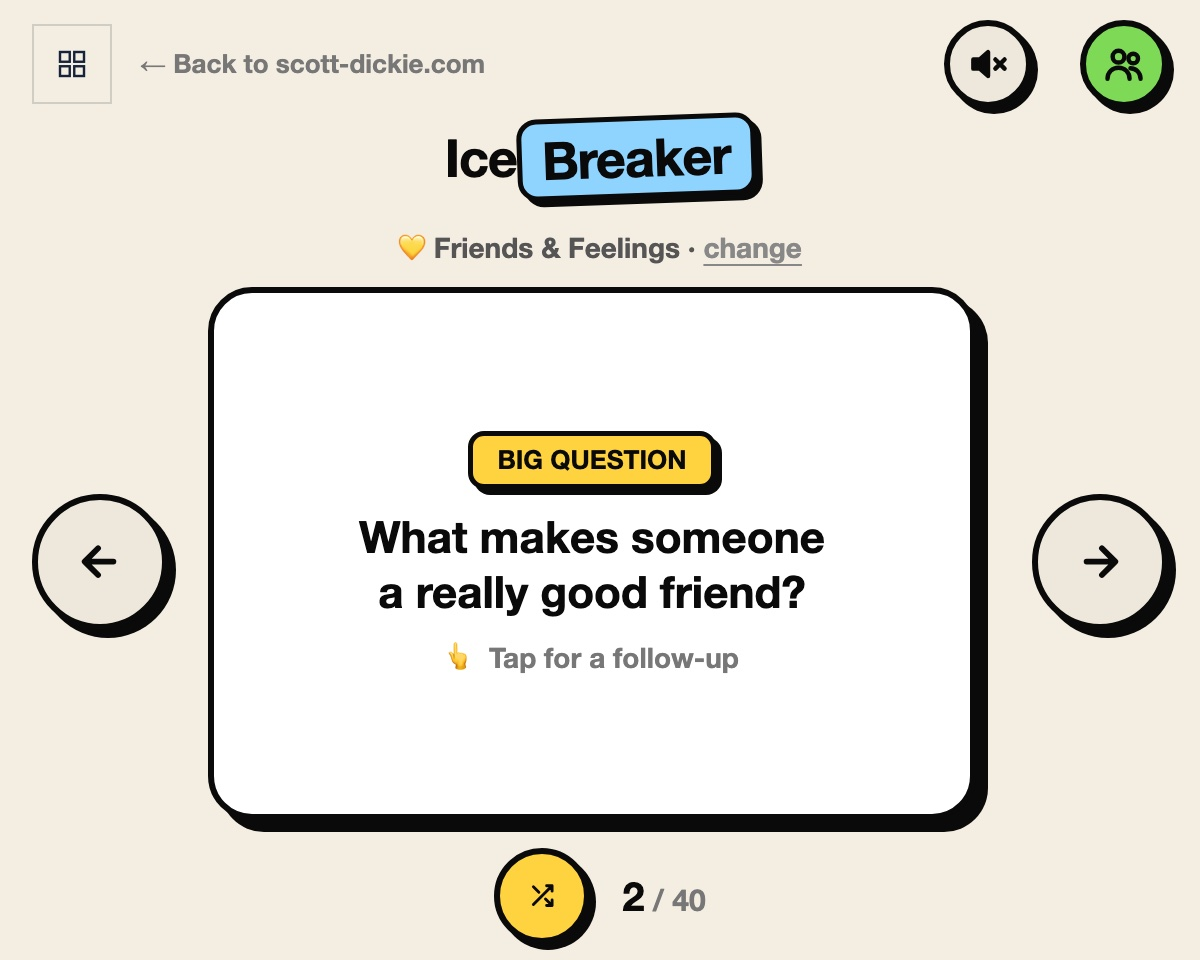
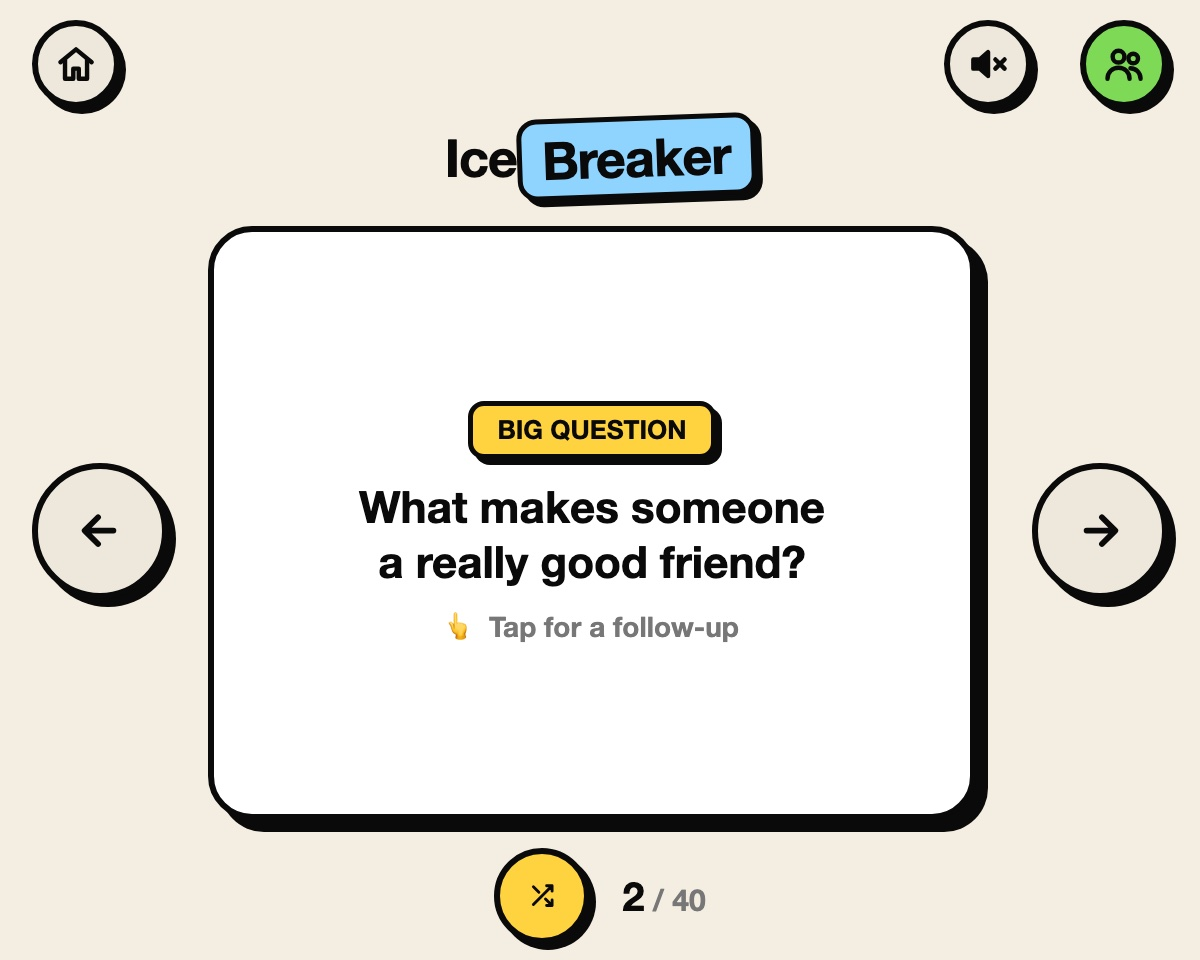
IceBreaker: home button back to the topics replaces the menu and back link

diff --git a/icebreaker/index.html b/icebreaker/index.html
@@ -222,7 +222,7 @@
   .counter{font-size:15px; font-weight:800; color:#777; text-align:center;}
   .counter b{color:var(--ink); font-size:20px;}
 
-  /* Top-left bar: projects menu first, then the way home */
+  /* Top bar: home (back to the topics) on the left, voice and players on the right */
   .page-nav{
     align-self:stretch;
     flex-shrink:0;
@@ -230,21 +230,6 @@
     align-items:center;
     gap:14px;
     margin-bottom:12px;
-  }
-  .site-link{
-    white-space:nowrap;
-    font-size:14px;
-    font-weight:800;
-    color:#777;
-    text-decoration:none;
-  }
-  .site-link:hover{color:var(--ink);}
-
-  /* Phones: the top bar holds the menu, the way home and two round buttons on one line */
-  @media (max-width:400px){
-    .page-nav{gap:10px;}
-    .site-link{font-size:13px;}
-    .players-btn{margin-left:8px;}
   }
   @media (max-height:640px){
     .emoji{display:none;}
@@ -261,7 +246,6 @@
       align-items:center;
     }
     header.top{grid-column:1 / -1; margin-bottom:8px;}
-    .topic-now{margin-top:2px; font-size:13px;}
     header.top h1{font-size:26px;}
     header.top h1 span{border-width:2.5px; box-shadow:3px 3px 0 var(--ink);}
     .controls{display:contents;}
@@ -272,7 +256,6 @@
     .middle{grid-column:1 / -1; grid-row:3; flex-direction:row; justify-content:center; gap:16px; margin-top:6px;}
     .play{width:48px; height:48px; box-shadow:3px 3px 0 var(--ink);}
     .page-nav{margin-bottom:4px;}
-    .site-link{font-size:13px;}
     .face{gap:10px; padding:14px 22px; box-shadow:6px 6px 0 var(--ink);}
     .line{font-size:22px;}
     .back .line{font-size:26px;}
@@ -308,12 +291,6 @@
   }
   .topic-tile.random .t-text{display:flex; flex-direction:column; gap:4px;}
   body.picking .topics .pop-in{animation:pop .3s ease both;}
-  .topic-now{
-    appearance:none; border:0; background:none; font-family:inherit; cursor:pointer;
-    margin:8px 0 0; padding:2px 6px; font-size:14px; font-weight:800; color:#555;
-  }
-  .topic-now u{color:#888; text-underline-offset:3px;}
-  .topic-now:focus-visible{outline:3px dashed var(--ink); border-radius:6px;}
   @media (max-height:700px){
     .topic-tile{min-height:96px; padding:12px 14px;}
     .topic-tile .t-emoji{font-size:28px;}
@@ -321,13 +298,15 @@
   }
 
   /* ---------- players: the card's border is split into one colored side per player ---------- */
-  .players-btn, .voice-btn{
+  .players-btn, .voice-btn, .home-btn{
     position:relative; appearance:none; margin-left:auto; width:44px; height:44px; padding:0; flex:none;
     border:3px solid var(--ink); border-radius:50%; background:var(--green); color:var(--ink);
     box-shadow:3px 3px 0 var(--ink); cursor:pointer; display:grid; place-items:center;
     transition:transform .12s ease, box-shadow .12s ease;
   }
-  .players-btn svg, .voice-btn svg{width:58%; height:58%;}
+  .players-btn svg, .voice-btn svg, .home-btn svg{width:58%; height:58%;}
+  .home-btn{margin-left:0; background:var(--neutral-btn);}
+  body.picking .home-btn{visibility:hidden;}   /* already on the topics */
   .players-btn{margin-left:10px;}
   .voice-btn{background:var(--neutral-btn);}
   .voice-btn[aria-pressed="true"]{background:var(--yellow);}
@@ -339,9 +318,9 @@
     font-size:12px; font-weight:900; line-height:17px;
   }
   .players-btn .badge:empty{display:none;}
-  @media (hover:hover){ .players-btn:hover, .voice-btn:hover{transform:translate(-2px,-2px); box-shadow:5px 5px 0 var(--ink);} }
-  .players-btn:active, .voice-btn:active{transform:translate(2px,2px); box-shadow:1px 1px 0 var(--ink);}
-  .players-btn:focus-visible, .voice-btn:focus-visible{outline:3px dashed var(--ink); outline-offset:4px;}
+  @media (hover:hover){ .players-btn:hover, .voice-btn:hover, .home-btn:hover{transform:translate(-2px,-2px); box-shadow:5px 5px 0 var(--ink);} }
+  .players-btn:active, .voice-btn:active, .home-btn:active{transform:translate(2px,2px); box-shadow:1px 1px 0 var(--ink);}
+  .players-btn:focus-visible, .voice-btn:focus-visible, .home-btn:focus-visible{outline:3px dashed var(--ink); outline-offset:4px;}
 
   .sides{position:absolute; inset:0; width:100%; height:100%; pointer-events:none; overflow:visible;}
   .sides path{fill:none; stroke-width:10; stroke-linecap:butt; transition:opacity .15s, stroke-width .15s;}
@@ -406,12 +385,12 @@
     dialog.spin[open]{animation:none;}
   }
 </style>
-  <link rel="stylesheet" href="../projects-menu.css" />
 </head>
 <body>
 <nav class="page-nav">
-  <button class="pm-trigger" type="button" data-projects-menu aria-label="Projects"><svg viewBox="0 0 24 24" fill="none" stroke="currentColor" stroke-width="1.6" aria-hidden="true"><rect x="4" y="4" width="6.5" height="6.5"/><rect x="13.5" y="4" width="6.5" height="6.5"/><rect x="4" y="13.5" width="6.5" height="6.5"/><rect x="13.5" y="13.5" width="6.5" height="6.5"/></svg></button>
-  <a class="site-link" href="/">&larr; Back to scott-dickie.com</a>
+  <button class="home-btn" id="homeBtn" type="button" aria-label="Change topic">
+    <svg viewBox="0 0 24 24" fill="none" stroke="currentColor" stroke-width="2.4" stroke-linecap="round" stroke-linejoin="round" aria-hidden="true"><path d="M3.5 11 12 4l8.5 7"/><path d="M6 9.5V20h4.5v-5.5h3V20H18V9.5"/></svg>
+  </button>
   <button class="voice-btn" id="voiceBtn" type="button" aria-pressed="false" aria-label="Read the questions out loud">
     <svg viewBox="0 0 24 24" fill="none" stroke="currentColor" stroke-width="2.4" stroke-linecap="round" stroke-linejoin="round" aria-hidden="true"><path d="M4 9.5h3.5L12 5.5v13l-4.5-4H4z" fill="currentColor"/><g class="waves"><path d="M15.5 9a4.5 4.5 0 0 1 0 6"/><path d="M18 6.5a8 8 0 0 1 0 11"/></g><path class="slash" d="M16 9.5l5 5M21 9.5l-5 5"/></svg>
   </button>
@@ -430,7 +409,6 @@
 <div class="wrap">
   <header class="top">
     <h1>Ice<span>Breaker</span></h1>
-    <button class="topic-now" type="button" id="topicNow" aria-label="Change topic"></button>
   </header>
 
   <div class="stage">
@@ -1004,7 +982,7 @@ voiceBtn.setAttribute('aria-pressed', String(voiceOn));
 // ---------- start screen: pick a topic ----------
 const TOPIC_EMOJI = { magic: '🪄', animals: '🐾', places: '🗺', friends: '💛', family: '🏡', me: '🌟' };
 const topicsEl = document.getElementById('topics');
-const topicNow = document.getElementById('topicNow');
+const homeBtn = document.getElementById('homeBtn');
 document.getElementById('topicGrid').innerHTML = TOPICS.map((t, i) => {
   const n = PROMPTS.filter(p => p[0] === t.id).length;
   return '<button class="topic-tile pop-in" type="button" data-topic="' + t.id + '" style="background:' + t.color +
@@ -1023,11 +1001,11 @@ function useTopic(id){
       const j = Math.floor(Math.random() * (i + 1));
       [deck[i], deck[j]] = [deck[j], deck[i]];
     }
-    topicNow.innerHTML = '🎲 Random · <u>change</u>';
+    homeBtn.setAttribute('aria-label', 'Change topic (now: Random)');
     return;
   }
   deck = PROMPTS.map((p, i) => p[0] === id ? i : -1).filter(i => i >= 0);
-  topicNow.innerHTML = TOPIC_EMOJI[id] + ' ' + topicOf(id).name + ' · <u>change</u>';
+  homeBtn.setAttribute('aria-label', 'Change topic (now: ' + topicOf(id).name + ')');
 }
 function openTopics(){
   voice.pause();
@@ -1046,12 +1024,11 @@ document.getElementById('topicGrid').addEventListener('click', e => {
   const tile = e.target.closest('.topic-tile');
   if (tile) chooseTopic(tile.dataset.topic);
 });
-topicNow.addEventListener('click', openTopics);
+homeBtn.addEventListener('click', openTopics);
 
 useTopic(topic);
 if (linked >= 1 && linked <= PROMPTS.length) show(index);
 else openTopics();
 </script>
-<script src="../projects-menu.js"></script>
 </body>
 </html>
